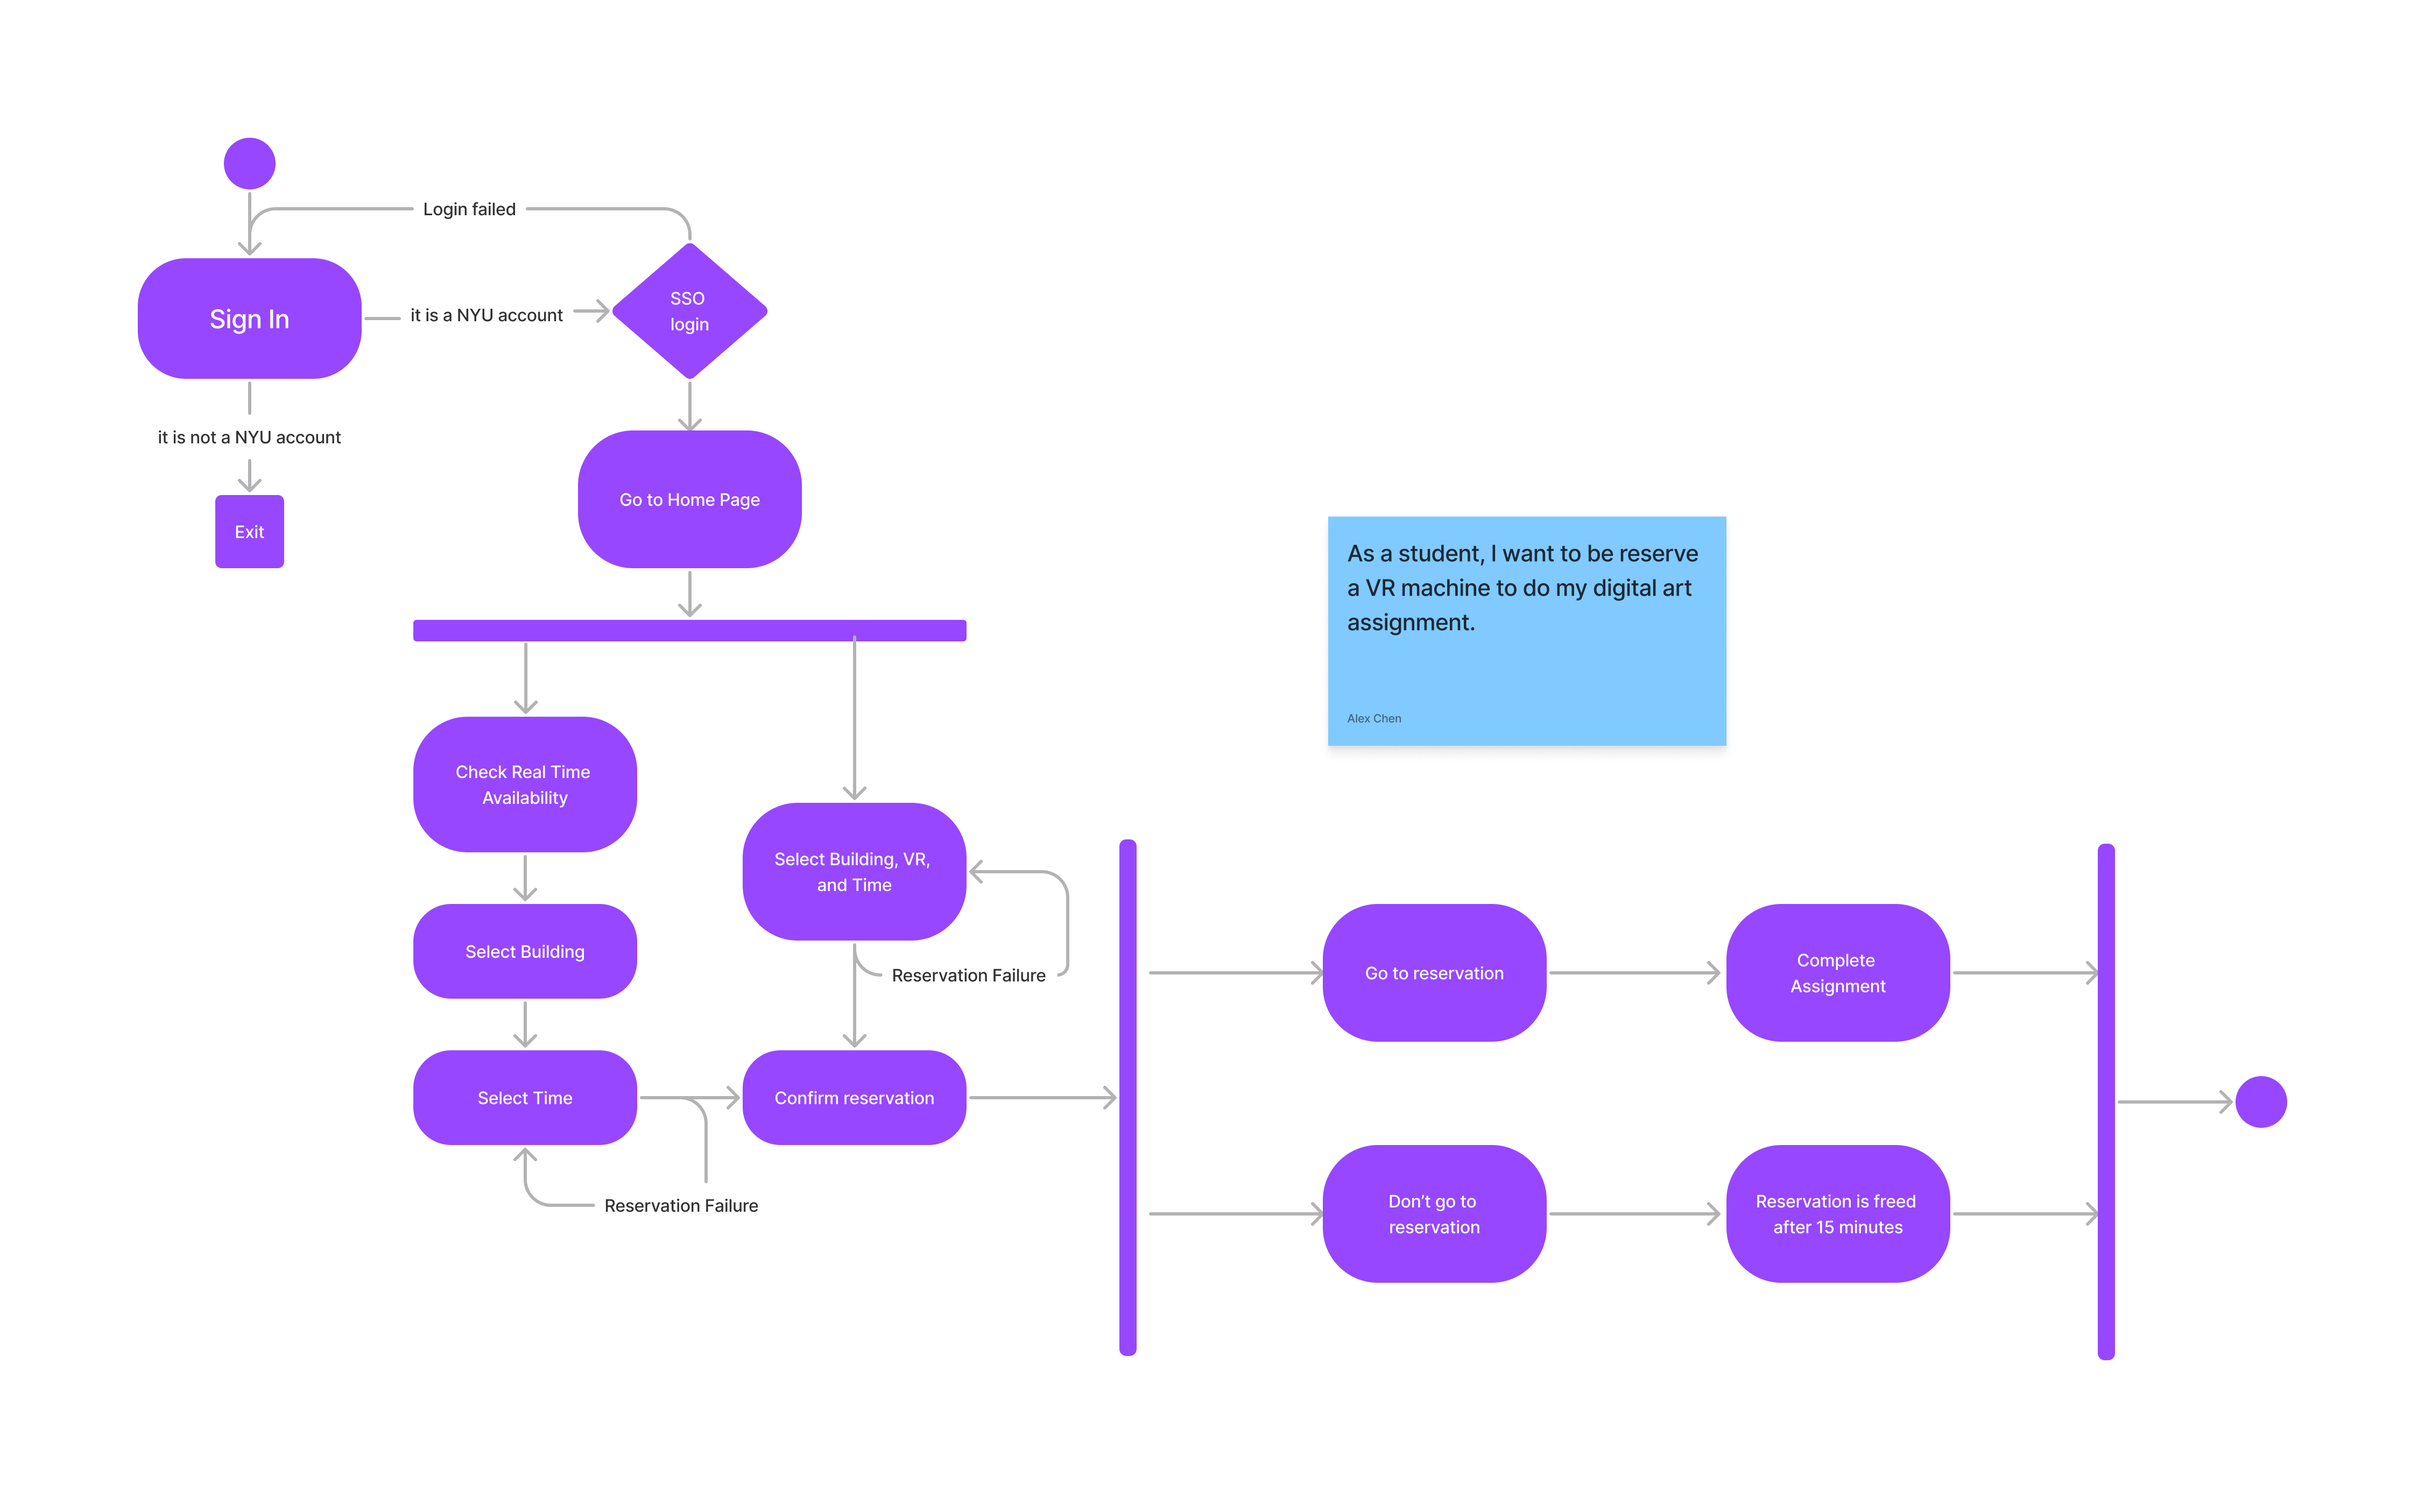
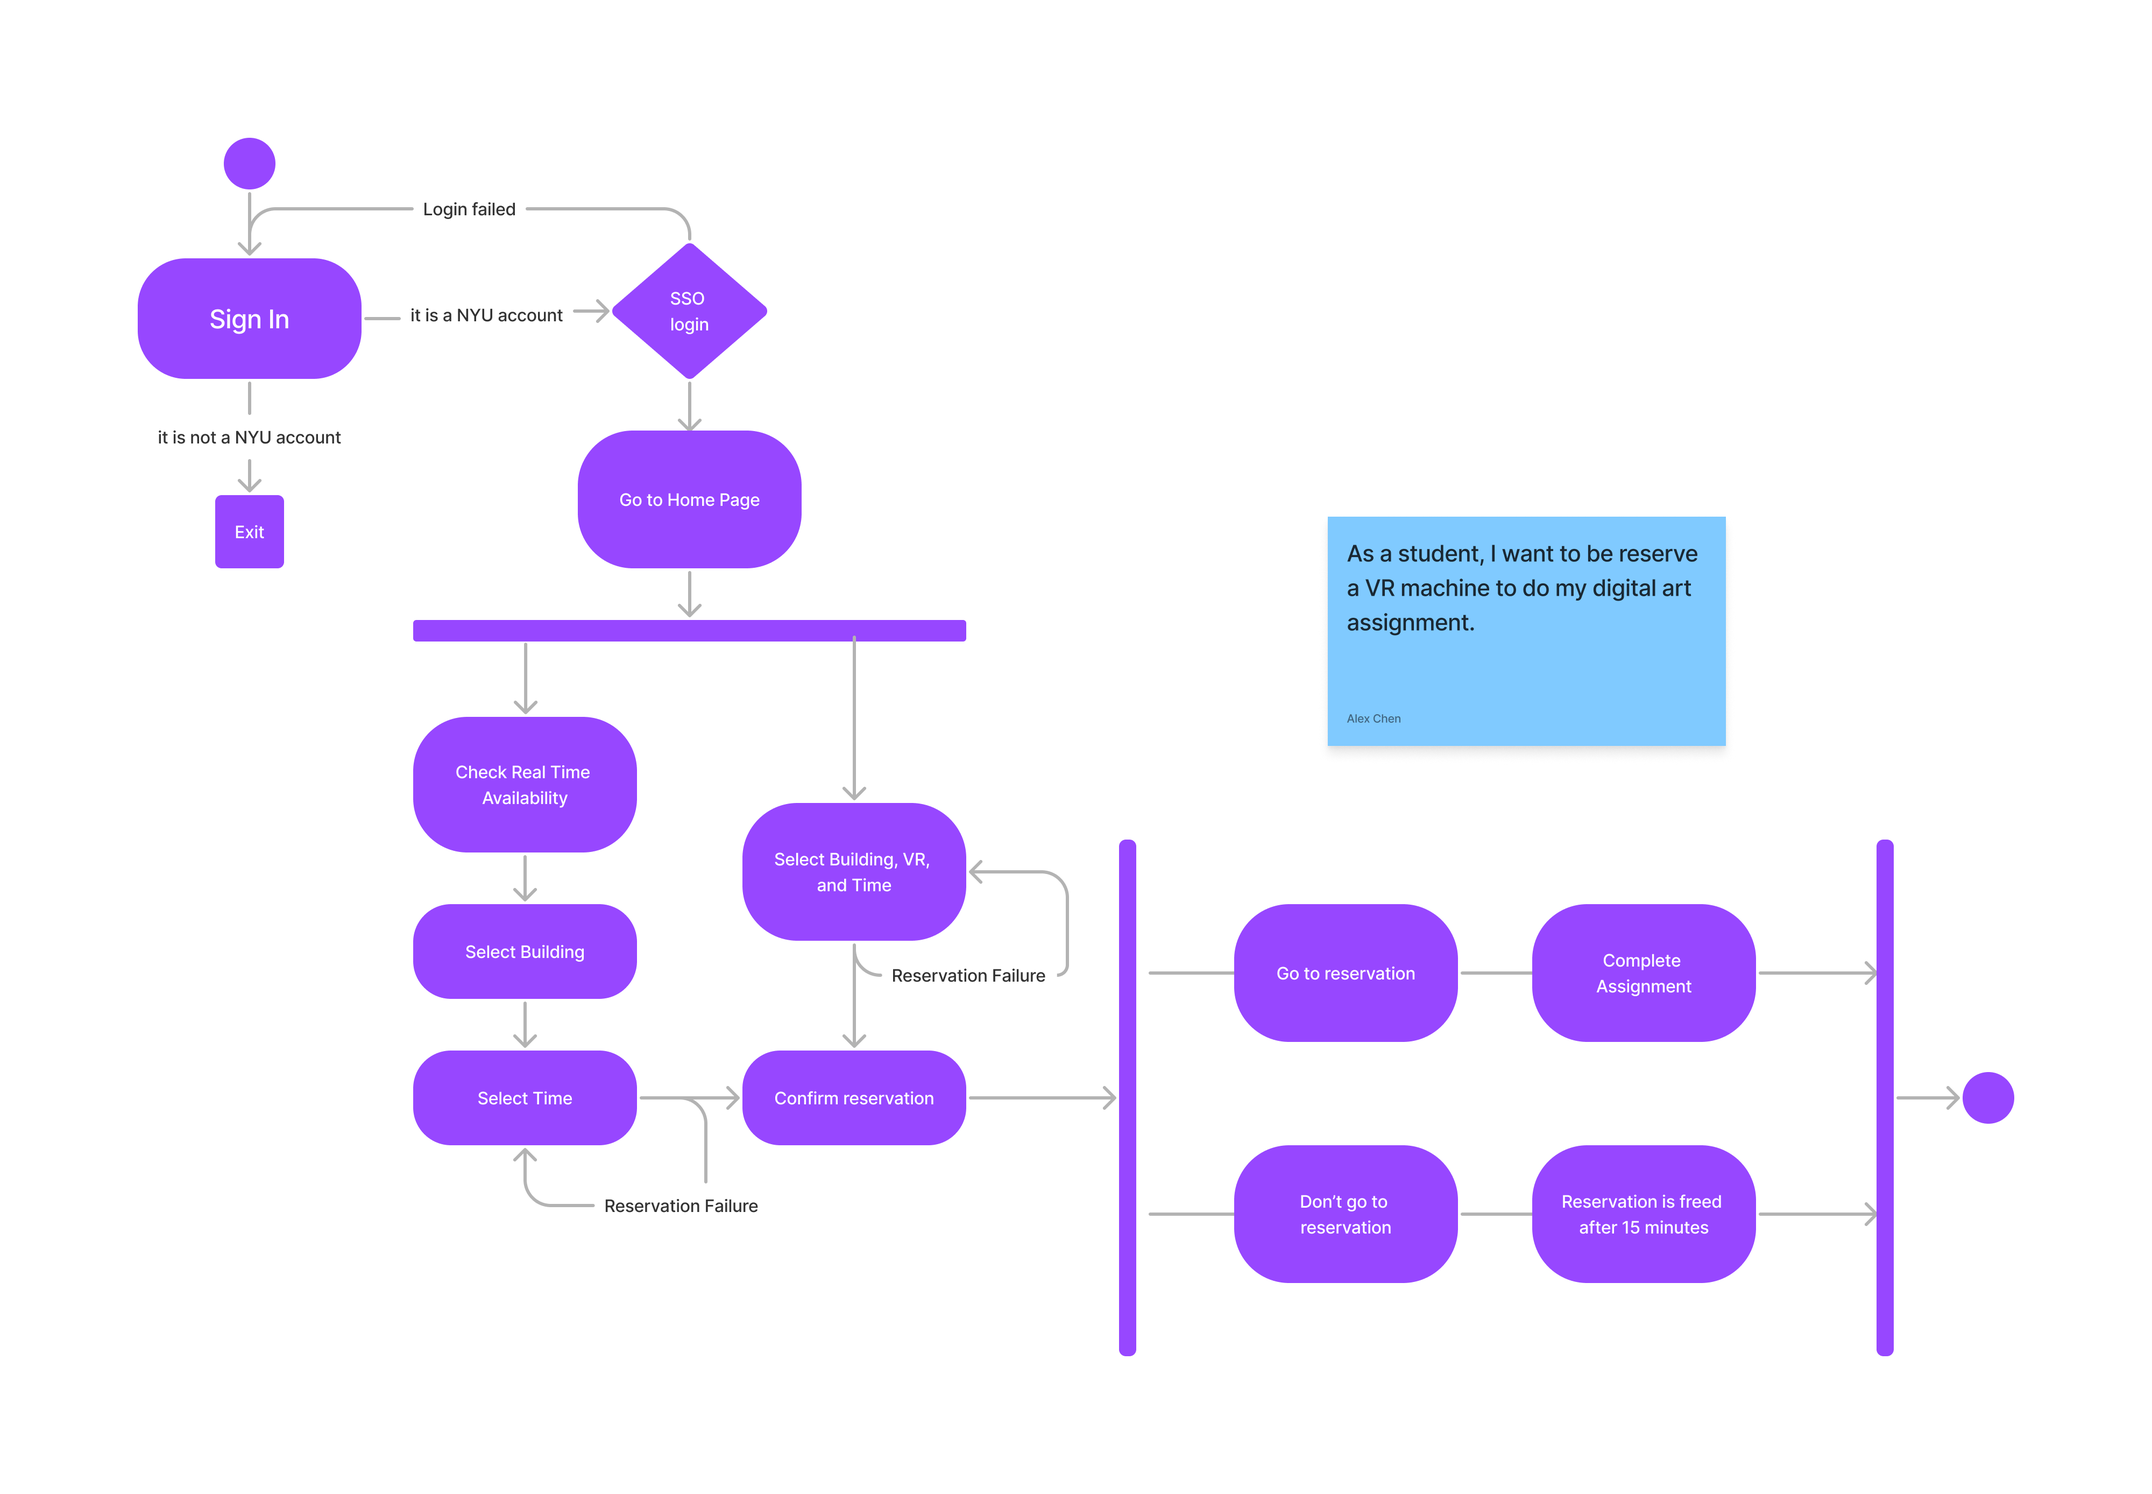
Removed height and width to add clarity to activity diagrams

diff --git a/README.md b/README.md
@@ -56,17 +56,17 @@ NYU students are in need of a comprehensive and unified reservation system for B
 
 ## Activity Diagrams
 
-User making a room reservation.
+As a student, I want reserve any room not currently in use, so I can host a last minute meeting.
 
-<a href="https://www.figma.com/file/XYVwfrSNmy2idALxnAMT2m/UML-Room-res?node-id=0%3A1"><img src="./src/UML%20Room%20res.png" height="300" width="1000"/></a></a>
+<a href="https://www.figma.com/file/XYVwfrSNmy2idALxnAMT2m/UML-Room-res?node-id=0%3A1"><img src="./src/UML%20Room%20res.png"/></a></a>
 
-User making a reservation for VR.
+As a student, I want to be reserve a VR machine to do my digital art assignment. 
 
-<a href="https://www.figma.com/file/c4FNAaG5HmeNUA4BcINsXf/UML-Tech-res?node-id=12%3A125" target="_blank"><img src="./src/UML_VR_res.png" height="300" width="1000"/></a></a>
+<a href="https://www.figma.com/file/c4FNAaG5HmeNUA4BcINsXf/UML-Tech-res?node-id=12%3A125" target="_blank"><img src="./src/UML_VR_res.png"/></a></a>
 
-## Wireframe Diagrams
+## Wireframe Diagram
 
-<a href="https://www.figma.com/file/tsQs2kiqpfBSQ6TXV3w506/Wireframe-diagram?node-id=0%3A1"><img src="./src/Wireframe%20diagram.png" height="400" /></a>
+<a href="https://www.figma.com/file/tsQs2kiqpfBSQ6TXV3w506/Wireframe-diagram?node-id=0%3A1"><img src="./src/Wireframe%20diagram.png" height="400"/></a>
 
 ## Clickable Prototype
 
